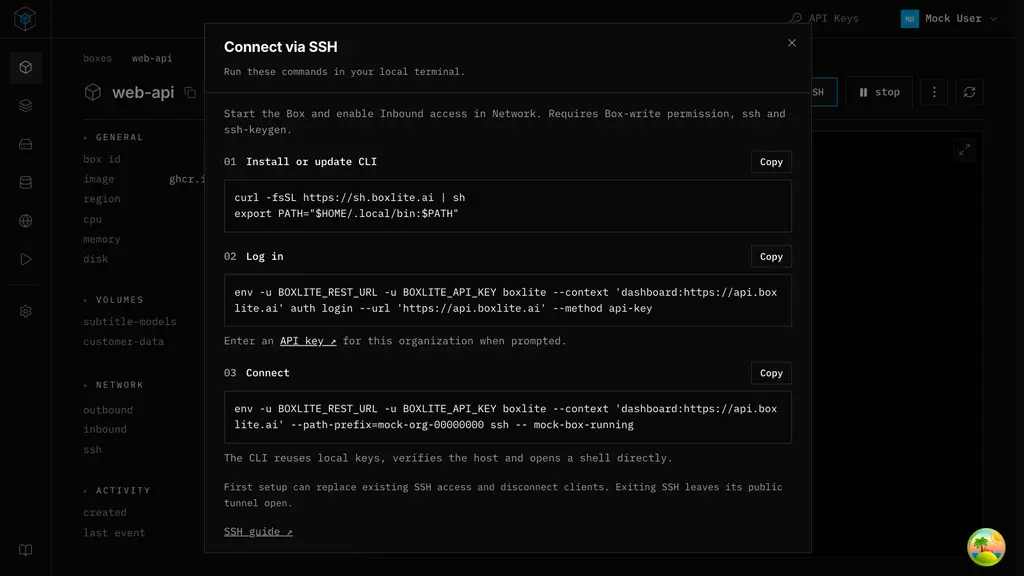
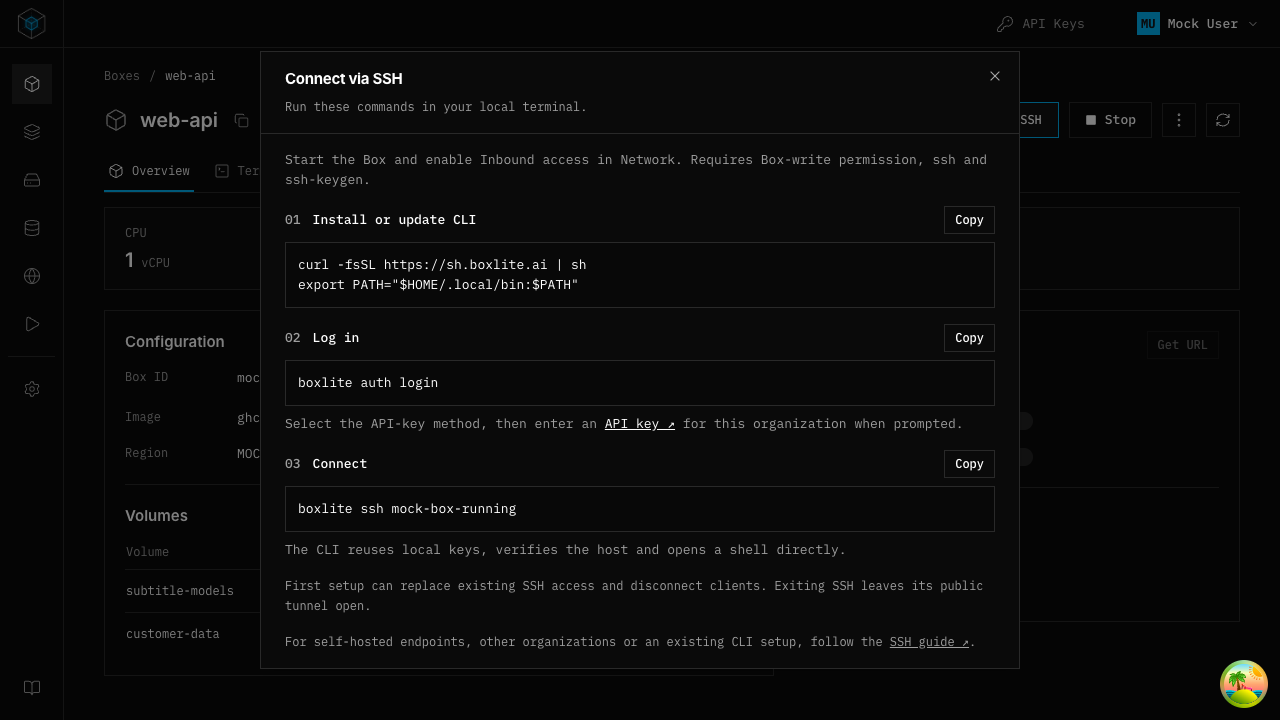
fix(dashboard): show the direct CLI commands in the SSH guide
The guide printed pinned commands: a dedicated --context, --path-prefix,
env -u cleanup and shell quoting. A user connecting from the hosted
dashboard only needs `boxlite auth login` and `boxlite ssh -- BOX`: the
CLI default endpoint is the hosted API, and a successful login caches the
organization's routing prefix.

Tradeoff accepted for length: a selected CLI context, exported BOXLITE_*
variables and self-hosted endpoints are no longer handled. One muted line
points those users at the SSH guide, and the investigation note records
the decision.

diff --git a/apps/dashboard/src/lib/ssh.test.ts b/apps/dashboard/src/lib/ssh.test.ts
@@ -1,12 +1,6 @@
-import { spawnSync } from 'node:child_process'
-import { mkdtempSync, rmSync, writeFileSync } from 'node:fs'
-import { tmpdir } from 'node:os'
-import { join } from 'node:path'
-import { afterEach, describe, expect, it, vi } from 'vitest'
+import { describe, expect, it, vi } from 'vitest'
 import type { ApiClient } from '@/api/apiClient'
 import { requestSsh, sshConnectionInstructions } from './ssh'
-
-afterEach(() => vi.unstubAllGlobals())
 
 describe('SSH REST boundary', () => {
   it('rejects incomplete status instead of reporting SSH disabled', async () => {
@@ -16,77 +10,17 @@ describe('SSH REST boundary', () => {
 })
 
 describe('SSH connection instructions', () => {
-  it.each([
-    { endpoint: 'https://api.example.test', organization: 'org-1' },
-    { endpoint: 'https://api.example.test/team%20one', organization: `org'; printf injected; #` },
-    { endpoint: "https://api.example.test/team'one", organization: '' },
-  ])(
-    'preserves endpoint and organization through the shell for $endpoint / $organization',
-    ({ endpoint, organization }) => {
-      vi.stubGlobal('window', { location: { origin: 'http://localhost:3000' } })
-      const commands = sshConnectionInstructions(endpoint, organization, 'box-1')
-      const directory = mkdtempSync(join(tmpdir(), 'boxlite-ssh-context-test-'))
-      try {
-        writeFileSync(
-          join(directory, 'boxlite'),
-          `#!/usr/bin/env node
-console.log(JSON.stringify({
-  url: process.env.BOXLITE_REST_URL ?? null,
-  apiKey: process.env.BOXLITE_API_KEY ?? null,
-  args: process.argv.slice(2),
-}));
-`,
-          { mode: 0o700 },
-        )
-        const result = spawnSync('/bin/sh', ['-ec', `${commands.login}\n${commands.connect}`], {
-          env: {
-            ...process.env,
-            PATH: `${directory}:${process.env.PATH}`,
-            BOXLITE_REST_URL: 'https://unrelated.example.test',
-            BOXLITE_API_KEY: 'unrelated-key',
-            BOXLITE_CONTEXT: 'unrelated-context',
-            BOXLITE_PROFILE: 'legacy-context',
-          },
-          encoding: 'utf8',
-          timeout: 5000,
-        })
-        expect(result.error).toBeUndefined()
-        expect(result.status, result.stderr).toBe(0)
-        expect(
-          result.stdout
-            .trim()
-            .split('\n')
-            .map((line) => JSON.parse(line)),
-        ).toEqual([
-          {
-            url: null,
-            apiKey: null,
-            args: ['--context', `dashboard:${endpoint}`, 'auth', 'login', '--url', endpoint, '--method', 'api-key'],
-          },
-          {
-            url: null,
-            apiKey: null,
-            args: ['--context', `dashboard:${endpoint}`, `--path-prefix=${organization}`, 'ssh', '--', 'box-1'],
-          },
-        ])
-      } finally {
-        rmSync(directory, { recursive: true, force: true })
-      }
+  it.each(['box-1', 'Box_123'])('uses short commands for box ID %s', (boxId) => {
+    expect(sshConnectionInstructions(boxId)).toEqual({
+      login: 'boxlite auth login',
+      connect: `boxlite ssh ${boxId}`,
+    })
+  })
+
+  it.each(['', '-box', '$(id)', 'box;id', 'box name', "box'1", 'box/1', 'box\n', 'box\r', 'box\t', 'box\0', 'box\x7f', '盒子'])(
+    'rejects unsafe box ID %j',
+    (boxId) => {
+      expect(() => sshConnectionInstructions(boxId)).toThrow('Invalid box ID')
     },
   )
-
-  it('normalizes relative endpoints without changing context across login and connection', () => {
-    vi.stubGlobal('window', { location: { origin: 'http://localhost:3000' } })
-    expect(sshConnectionInstructions('/api/', 'org', 'box-1')).toEqual(
-      sshConnectionInstructions('http://localhost:3000/api', 'org', 'box-1'),
-    )
-  })
-
-  it('refuses control characters, unsafe box IDs, and credential-bearing URLs', () => {
-    vi.stubGlobal('window', { location: { origin: 'http://localhost:3000' } })
-    expect(() => sshConnectionInstructions('/api', 'org\n1', 'box-1')).toThrow()
-    expect(() => sshConnectionInstructions('/api', 'org', '$(id)')).toThrow()
-    expect(() => sshConnectionInstructions('https://secret@example.test', 'org', 'box-1')).toThrow()
-    expect(() => sshConnectionInstructions('javascript:alert(1)', 'org', 'box-1')).toThrow()
-  })
 })

diff --git a/apps/dashboard/src/components/boxes/BoxSshTab.test.tsx b/apps/dashboard/src/components/boxes/BoxSshTab.test.tsx
@@ -92,9 +92,27 @@ describe('SSH BoxSshTab static guide and saved access', () => {
   it('offers direct CLI SSH immediately without configuring SSH in the browser', async () => {
     await render()
     await click('Connect via SSH')
-    const commands = [...document.querySelectorAll('pre')].map((node) => node.textContent).join('\n')
-    expect(commands).toContain('--path-prefix=org-1 ssh -- box-1')
-    expect(commands).not.toContain('ssh --proxy')
+    const commands = [...document.querySelectorAll('pre')].map((node) => node.textContent)
+    expect(commands).toEqual([
+      'curl -fsSL https://sh.boxlite.ai | sh\nexport PATH="$HOME/.local/bin:$PATH"',
+      'boxlite auth login',
+      'boxlite ssh box-1',
+    ])
+    const dialog = document.querySelector('[role="dialog"]')!
+    expect(dialog.textContent).toContain(
+      'Select the API-key method, then enter an API key ↗ for this organization when prompted.',
+    )
+    expect(dialog.querySelector('a[href="/dashboard/keys"]')).not.toBeNull()
+    expect(dialog.textContent).toContain(
+      'First setup can replace existing SSH access and disconnect clients. Exiting SSH leaves its public tunnel open.',
+    )
+    const docs = dialog.querySelectorAll('a[href="https://docs.boxlite.ai/cloud/ssh"]')
+    expect(docs).toHaveLength(1)
+    expect(docs[0].parentElement!.textContent).toBe(
+      'For self-hosted endpoints, other organizations or an existing CLI setup, follow the SSH guide ↗.',
+    )
+    expect(docs[0].parentElement!.classList.contains('text-meta')).toBe(true)
+    expect(docs[0].parentElement!.classList.contains('text-muted-foreground')).toBe(true)
     expect(document.querySelector('input')).toBeNull()
     expect(mocks.post).not.toHaveBeenCalled()
     expect(mocks.inbound).not.toHaveBeenCalled()
@@ -136,7 +154,7 @@ describe('SSH BoxSshTab static guide and saved access', () => {
     await render()
     await click('Connect via SSH')
     expect(document.querySelector<HTMLButtonElement>('[aria-label="SSH access"]')!.disabled).toBe(true)
-    expect(document.querySelectorAll('pre')[2].textContent).toContain('ssh -- box-1')
+    expect(document.querySelectorAll('pre')[2].textContent).toContain('ssh box-1')
     await act(async () => document.querySelector<HTMLButtonElement>('[title="Refresh SSH status"]')!.click())
     expect(document.querySelector<HTMLButtonElement>('[aria-label="SSH access"]')!.disabled).toBe(false)
   })
@@ -166,7 +184,7 @@ describe('SSH BoxSshTab static guide and saved access', () => {
       await render()
       mocks.post.mockRejectedValueOnce({ isAxiosError: true, response: { status: 409, data } })
       await toggleSsh()
-      expect(document.querySelectorAll('pre')[2].textContent).toContain('ssh -- box-1')
+      expect(document.querySelectorAll('pre')[2].textContent).toContain('ssh box-1')
       expect(mocks.post).toHaveBeenCalledOnce()
       expect(document.querySelector('input')).toBeNull()
       await act(async () => window.dispatchEvent(new Event('focus')))
@@ -254,10 +272,14 @@ describe('SSH BoxSshTab static guide and saved access', () => {
     await render(BoxState.STARTED, scope === 'box' ? 'box-2' : 'box-1')
     expect(document.querySelector('[role="dialog"]')).toBeNull()
     await click('Connect via SSH')
-    const connect = document.querySelectorAll('pre')[2].textContent
-    expect(connect).toContain(scope === 'organization' ? '--path-prefix=org-2' : '--path-prefix=org-1')
-    expect(connect).toContain(scope === 'box' ? 'ssh -- box-2' : 'ssh -- box-1')
-    expect(connect).toContain(scope === 'endpoint' ? 'other.example.test' : 'api.example.test')
+    expect(document.querySelectorAll('pre')[1].textContent).toBe('boxlite auth login')
+    expect(document.querySelectorAll('pre')[2].textContent).toBe(
+      scope === 'box' ? 'boxlite ssh box-2' : 'boxlite ssh box-1',
+    )
+    expect(mocks.get).toHaveBeenLastCalledWith(
+      `v1/${mocks.organization}/boxes/${scope === 'box' ? 'box-2' : 'box-1'}/ssh`,
+      { timeout: 30_000 },
+    )
   })
 
   it('does not read without an organization and blocks mutations for stopped Boxes', async () => {

diff --git a/apps/dashboard/src/components/boxes/BoxSshTab.tsx b/apps/dashboard/src/components/boxes/BoxSshTab.tsx
@@ -19,7 +19,6 @@ import {
 import { useApi } from '@/hooks/useApi'
 import { useConfig } from '@/hooks/useConfig'
 import { useSelectedOrganization } from '@/hooks/useSelectedOrganization'
-import { getRestApiUrl } from '@/lib/environment'
 import { sshFailureReason } from '@/lib/ssh-connection-ui'
 import { requestSsh, sshConnectionInstructions, type SshInstructions, type SshStatus } from '@/lib/ssh'
 
@@ -64,7 +63,6 @@ function SshControls({
   statusContainer?: HTMLDivElement | null
 }) {
   const api = useApi()
-  const config = useConfig()
   const { authenticatedUserHasPermission } = useSelectedOrganization()
   const [status, setStatus] = useState<SshStatus>()
   const [loading, setLoading] = useState(true)
@@ -82,11 +80,7 @@ function SshControls({
   const canManage = authenticatedUserHasPermission(OrganizationRolePermissionsEnum.WRITE_BOXES)
   let instructions: SshInstructions | undefined
   try {
-    instructions = sshConnectionInstructions(
-      getRestApiUrl(config.apiUrl, undefined, config.oidc?.issuer),
-      organizationId,
-      box.id,
-    )
+    instructions = sshConnectionInstructions(box.id)
   } catch {
     /* Invalid connection metadata must never become a shell command. */
   }
@@ -254,7 +248,7 @@ function SshControls({
               />
               <SshStep number="02" title="Log in" command={instructions?.login ?? ''}>
                 <p className="mt-2 text-muted-foreground">
-                  Enter an{' '}
+                  Select the API-key method, then enter an{' '}
                   <a href="/dashboard/keys" target="_blank" rel="noreferrer" className="text-foreground underline">
                     API key ↗
                   </a>{' '}
@@ -271,14 +265,13 @@ function SshControls({
               First setup can replace existing SSH access and disconnect clients. Exiting SSH leaves its public tunnel
               open.
             </p>
-            <a
-              href={BOXLITE_SSH_DOCS_URL}
-              target="_blank"
-              rel="noreferrer"
-              className="resource-guide-link"
-            >
-              SSH guide ↗
-            </a>
+            <p className="text-meta leading-5 text-muted-foreground">
+              For self-hosted endpoints, other organizations or an existing CLI setup, follow the{' '}
+              <a href={BOXLITE_SSH_DOCS_URL} target="_blank" rel="noreferrer" className="resource-guide-link">
+                SSH guide ↗
+              </a>
+              .
+            </p>
           </div>
         </DialogContent>
       </Dialog>

diff --git a/apps/dashboard/src/lib/ssh.ts b/apps/dashboard/src/lib/ssh.ts
@@ -41,29 +41,18 @@ export async function requestSsh(
 }
 
 export type SshInstructions = {
-  endpoint: string
   login: string
   connect: string
 }
 
-/** Keep login and direct SSH on the Dashboard's endpoint and organization. */
-export function sshConnectionInstructions(apiUrl: string, organizationId: string, boxId: string): SshInstructions {
-  if (!/^[a-zA-Z0-9_-]+$/.test(boxId)) throw new Error('Invalid box ID')
-  const quote = (value: string) => {
-    if ([...value].some((character) => character.charCodeAt(0) < 32 || character.charCodeAt(0) === 127))
-      throw new Error('Invalid connection argument')
-    if (/^[a-zA-Z0-9_-]+$/.test(value)) return value
-    return `'${value.replace(/'/g, `'"'"'`)}'`
-  }
-  const url = new URL(apiUrl, window.location.origin)
-  if (!['http:', 'https:'].includes(url.protocol) || url.username || url.password) throw new Error('Invalid API URL')
-  const endpoint = url.href.replace(/\/$/, '')
-  // A dedicated context keeps saved/ambient context changes from redirecting SSH.
-  // Ambient credentials must not override the login saved in this context.
-  const cli = `env -u BOXLITE_REST_URL -u BOXLITE_API_KEY boxlite --context ${quote(`dashboard:${endpoint}`)}`
+/**
+ * Keep the hosted guide short: CLI defaults already target the hosted API, and
+ * login caches the organization. Existing CLI setups and other endpoints use the docs.
+ */
+export function sshConnectionInstructions(boxId: string): SshInstructions {
+  if (!/^[A-Za-z0-9_][A-Za-z0-9_-]*$/.test(boxId)) throw new Error('Invalid box ID')
   return {
-    connect: `${cli} --path-prefix=${quote(organizationId)} ssh -- ${quote(boxId)}`,
-    endpoint,
-    login: `${cli} auth login --url ${quote(endpoint)} --method api-key`,
+    connect: `boxlite ssh ${boxId}`,
+    login: 'boxlite auth login',
   }
 }

diff --git a/docs/contributing/investigations/ssh-connection-dialog.md b/docs/contributing/investigations/ssh-connection-dialog.md
@@ -2,7 +2,7 @@
 
 ## TL;DR
 
-The SSH dialog is static guidance for direct CLI login: install, authenticate, then run `boxlite ssh BOX` to enter a shell. The browser neither prepares SSH nor constructs a second OpenSSH command.
+The SSH dialog is static guidance for direct CLI login: install, run `boxlite auth login`, then `boxlite ssh <box-id>` to enter a shell. Keep these commands short: the CLI defaults already target the hosted API, and successful login caches the organization's routing prefix. The browser neither prepares SSH nor constructs a second OpenSSH command.
 
 ## Scope and interaction
 
@@ -13,8 +13,8 @@ The dialog uses the shared constrained layout, divided fixed header, compact mon
 ## Connection contract
 
 1. Install or update the CLI.
-2. Log in using an API key for the selected organization. Entry is interactive; secrets never appear in copied commands.
-3. Start the Box, enable **Inbound access** in Network and run `boxlite … --path-prefix=ORGANIZATION ssh -- BOX`. This opens a shell directly as `box`; it does not merely print a command to run later. Box-write permission and local `ssh` and `ssh-keygen` are required.
+2. Run `boxlite auth login`, select the API-key method and enter a key for the selected organization. Entry is interactive; secrets never appear in copied commands.
+3. Start the Box, enable **Inbound access** in Network and run `boxlite ssh <box-id>`. This opens a shell directly as `box`; it does not merely print a command to run later. Box-write permission and local `ssh` and `ssh-keygen` are required.
 
 The CLI owns local Ed25519 credentials, remote credential scoping, tunnel lifetime and system OpenSSH. It uses its own known-hosts file and strict host checking. No manual fingerprint acceptance or separate Dashboard-generated `ssh` command is needed. Default login does not edit user OpenSSH configuration. Explicit `--install-ssh-config` is a separate CLI operation, not a prerequisite for direct login.
 
@@ -29,9 +29,13 @@ A mismatching observed host identity fails instead of reconfiguring healthy SSH.
 
 Direct cloud login requires SSH control, tunnel support and inbound access. Exiting closes local forwarding but leaves the public tunnel declaration open, protected by SSH authentication. Revoke it with `boxlite network tunnel BOX PORT --revoke`, using the same context and prefix.
 
-## Selection and existing controls
+## Decision and accepted tradeoff
 
-Login and connection explicitly select `dashboard:<normalized API endpoint>`. Login supplies the endpoint; connection pins the organization with `--path-prefix`. Both remove inherited `BOXLITE_REST_URL` and `BOXLITE_API_KEY` from their child environments without changing the parent shell or saved current context. Arguments are validated and shell-quoted. The CLI retains the resolved selection throughout the direct session.
+The guide deliberately shows bare login and direct SSH, without endpoint or organization pinning, a dedicated context, shell quoting or environment cleanup. Only the Box ID is interpolated, and it must match `/^[A-Za-z0-9_][A-Za-z0-9_-]*$/`.
+
+Bare login targets the CLI default endpoint (`https://api.boxlite.ai`) in a fresh setup, does not prompt for an endpoint and writes the selected context. Successful API-key login saves the organization's routing prefix, so the connect command needs no explicit prefix. The tradeoff is intentional: an unrelated selected context, exported `BOXLITE_*` variables or a non-production/self-hosted deployment can change the effective destination or credentials. The guide does not detect or handle these minority cases. One muted line directs users with self-hosted endpoints, other organizations or an existing CLI setup to the existing [SSH guide](https://docs.boxlite.ai/cloud/ssh).
+
+## Existing controls
 
 The Network SSH switch only enables/disables saved configuration. It never creates keys or changes inbound. Missing configuration opens the static guide; authentication and permission failures remain errors. Mutations require a running Box and `WRITE_BOXES`; unknown status cannot be toggled.
 
@@ -50,7 +54,7 @@ Keeping the older printed-command instructions would require an extra step that 
 
 ## Validation boundary
 
-Focused SSH checks cover shell arguments and ambient credential isolation, clipboard failure/retry, no-write guide actions, saved-state switches, permission/lifecycle guards and stale responses. Mock browser inspection covers the actual three-step guide, command copying and desktop/mobile layout. Neither a mock preview nor these Dashboard checks prove a live cloud SSH handshake or availability of the target CLI in the public installer.
+Focused SSH checks cover the exact short commands, Box-ID validation, API-key instructions and the docs caveat, clipboard failure/retry, no-write guide actions, saved-state switches, permission/lifecycle guards and stale responses. Mock browser inspection covers the actual three-step guide, command copying and desktop/mobile layout. Neither a mock preview nor these Dashboard checks prove a live cloud SSH handshake or availability of the target CLI in the public installer.
 
 ## Compact layout
 
@@ -68,8 +72,9 @@ checks passed; no live SSH handshake was run.
 ## Screenshots
 
 Both screenshots use mock data. The earlier screenshot records the browser-key
-workflow and predates the current navigation; the new screenshot shows the static
-guide at 1280×720. Neither demonstrates a live SSH connection.
+workflow and predates the current navigation; the new screenshot shows the current
+static three-step guide at 1280×720 with the short commands. Neither demonstrates
+a live SSH connection.
 
 ### Previous browser-key guide
 

diff --git a/apps/dashboard/README.md b/apps/dashboard/README.md
@@ -73,10 +73,10 @@ the body, keeping the title and close control visible.
 ### Connection steps
 
 1. Install or update the CLI with the displayed installer.
-2. Log in with an API key for the selected organization. The key is entered
-   interactively, not embedded in a copied command.
+2. Run `boxlite auth login`, select the API-key method and enter a key for the
+   selected organization interactively, not in a copied command.
 3. Start the Box and enable **Inbound access** in its existing Network section.
-   Run `boxlite … --path-prefix=ORGANIZATION ssh -- BOX` to enter a shell directly.
+   Run `boxlite ssh <box-id>` to enter a shell directly.
    No second SSH command is needed. Connecting requires Box-write permission and
    local `ssh` and `ssh-keygen`.
 
@@ -97,18 +97,14 @@ stores SSH path preferences, or offers a configuration-reset flow. The guide is
 readable regardless of live SSH status; it does not claim to detect CLI installation,
 login, successful setup or a completed connection.
 
-### Context isolation
+Commands are deliberately short: the CLI default endpoint is the hosted API,
+`https://api.boxlite.ai`, and successful login caches the organization's routing
+prefix. Bare login writes the selected CLI context; the guide does not isolate
+existing CLI state or override exported `BOXLITE_*` variables. Its muted docs line
+points users with self-hosted endpoints, other organizations or an existing CLI
+setup to the [SSH guide](https://docs.boxlite.ai/cloud/ssh). The browser does not
+detect these cases. Box IDs are validated before inclusion in commands.
 
-Login and connection explicitly select `dashboard:<normalized API endpoint>`, for
-example `dashboard:https://api.boxlite.ai`. Login supplies that endpoint; connection
-pins the selected organization with `--path-prefix`. Neither changes the saved
-current context. Both commands remove inherited `BOXLITE_REST_URL` and
-`BOXLITE_API_KEY` from their child environments, without changing the parent shell.
-An ordinary context switch cannot redirect these commands; deliberately changing
-the same dedicated context can. Rerun the displayed login to restore it.
-
-The resolved authentication, endpoint and prefix remain in use throughout the
-direct session. No parent-shell environment cleanup or second command is required.
 Dashboard does not duplicate the CLI's identity-file paths, known-hosts handling
 or system OpenSSH invocation. Default login does not edit `~/.ssh/config`.
 
